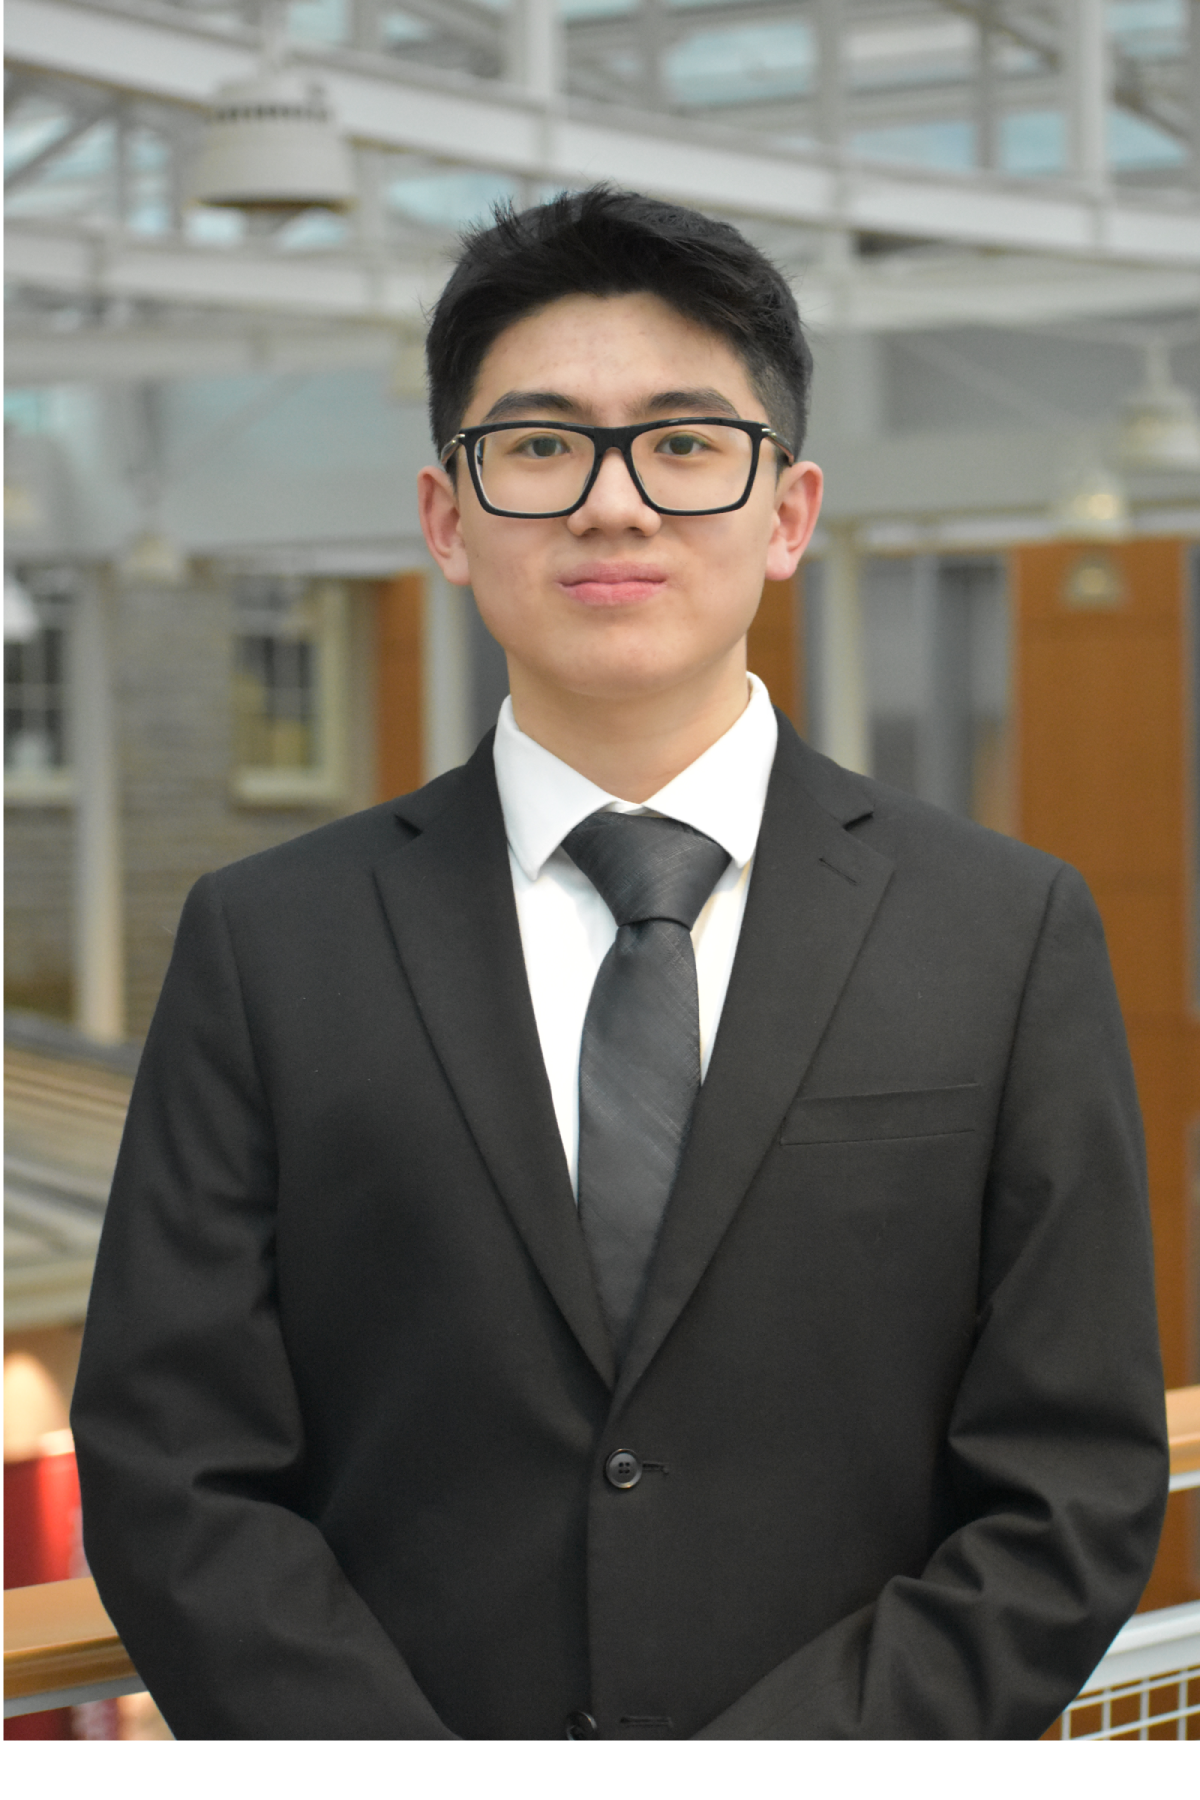
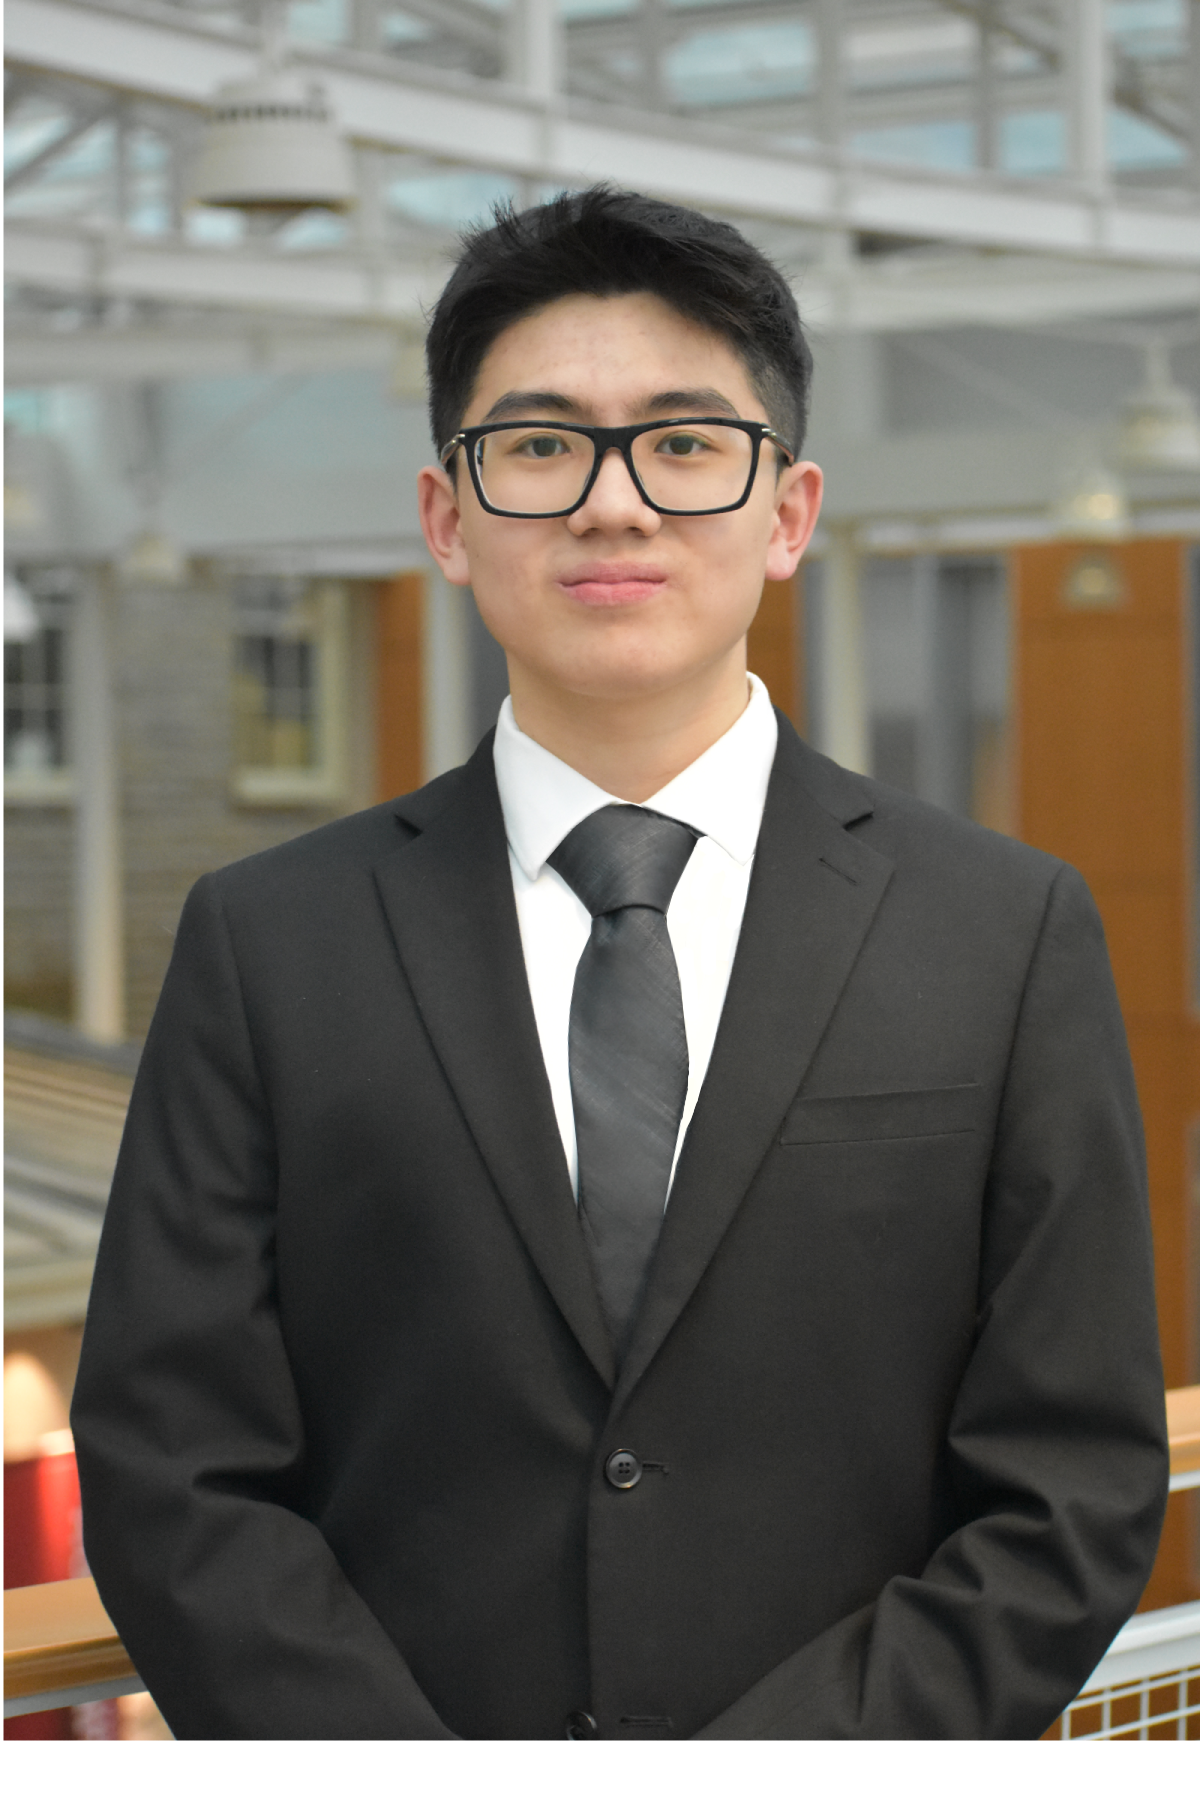
added beta class members + updated headshots

Changed region(s): [[0.4625, 0.4356, 0.6475, 0.6533]]

diff --git a/members.html b/members.html
@@ -57,11 +57,23 @@
                         <p>Loading E-board members...</p>
                     </div>
                 </div>
+
+                <!-- <h2 class="fw-bold text-center mb-1" style="color: var(--navbar-bg-color);">Beta Class</h2>
+                <h4 class="text-center mb-4">Fall 2025</h4>
+                <div class="text-center mb-5">
+                    <img src="images/classpictures/betaclass.png" class="img-fluid" style="max-width: 1000px;" alt="Beta Class group photo">
+                </div>
+
+                <div id="beta-root" class="row g-4 mb-5">
+                    <div class="col-12 text-center">
+                        <p>Loading Beta Class members...</p>
+                    </div>
+                </div> -->
           
                 <h2 class="fw-bold text-center mb-1" style="color: var(--navbar-bg-color);">Alpha Class</h2>
                 <h4 class="text-center mb-4">Spring 2025</h4>
                 <div class="text-center mb-5">
-                    <img src="images/classpictures/alphaclass.JPG" class="img-fluid" style="max-width: 1000px;" alt="Alpha Class group photo">
+                    <img src="images/classpictures/alphaclass.png" class="img-fluid" style="max-width: 1000px;" alt="Alpha Class group photo">
                 </div>
                 <div id="alpha-root" class="row g-4 mb-5">
                     <div class="col-12 text-center">
@@ -217,54 +229,6 @@
             }
 
             // Hardcoded data (since JSON fetch might not work locally)
-            const membersData = {
-                "eboard": [
-                    {
-                        "name": "Riya Patel",
-                        "major": "Hotel Administration '27",
-                        "photo": "images/headshots/AlphaClass/Riya Pate.png",
-                        "hometown": "Savannah, GA",
-                        "linkedin": "https://www.linkedin.com/in/rbp18",
-                        "email": "rbp95@cornell.edu",
-                        "description": "Outside KTP, Riya is involved in Cornell Hotel Society, Cornell Marketing Club, Cornell Real Estate Club, CREDIT, and SWIB. This summer, she is working at Arnva Ventures as a PE intern. In her free time, she enjoys discovering new brunch spots, planning events, and exploring vibrant cities.",
-                        "role": "Co-President"
-                    },
-                    {
-                        "name": "Gregory Parent",
-                        "major": "Computer Science '28",
-                        "photo": "images/headshots/AlphaClass/Gregory Parent.jpeg",
-                        "hometown": "Armonk, NY",
-                        "linkedin": "https://www.linkedin.com/in/gregory-parent",
-                        "email": "gmp89@cornell.edu",
-                        "description": "Outside KTP, Gregory is invoved in Cornell Fintech Club. In his free time, he enjoys lifting, watching movies, and listening to Rock Music.",
-                        "role": "Co-President"
-                    }
-                ],
-                "alpha": [
-                    {
-                        "name": "Alexis Barrow",
-                        "major": "Mechanical and Aerospace Engineering '27",
-                        "photo": "images/headshots/AlphaClass/Alexis Barrow.JPG",
-                        "hometown": "Ramsey, NJ",
-                        "linkedin": "https://www.linkedin.com/in/alexis-barrow12",
-                        "email": "alexismadbarrow@gmail.com",
-                        "description": "Outside KTP, Alexis is involved in Cornell Electric Vehicles, and Tri Delta sorority. This summer, she is planning to work at General Atomics Aeronautical Systems. In her free time, she enjoys running, playing soccer, painting, and doing embroidery.",
-                        "role": ""
-                    }
-                ],
-                "founders": [
-                    {
-                        "name": "Belen del Castillo",
-                        "major": "Information Science '26",
-                        "photo": "images/headshots/Founders/Belen Del Castillo.JPG",
-                        "hometown": "Chicago, IL",
-                        "linkedin": "https://www.linkedin.com/in/belen-del-castillo/",
-                        "email": "bad88@cornell.edu",
-                        "description": "",
-                        "role": ""
-                    }
-                ]
-            };
 
             function renderMembers(containerId, members) {
                 const container = document.getElementById(containerId);
@@ -298,15 +262,9 @@
                 .then(data => {
                     renderMembers('eboard-root', data.eboard);
                     renderMembers('alpha-root', data.alpha);
+                    renderMembers('beta-root', data.beta);
                     renderMembers('founders-root', data.founders);
                 })
-                .catch(error => {
-                    console.log('Using hardcoded data due to:', error);
-                    // Use hardcoded data as fallback
-                    renderMembers('eboard-root', membersData.eboard);
-                    renderMembers('alpha-root', membersData.alpha);
-                    renderMembers('founders-root', membersData.founders);
-                });
 
         </script>
 

diff --git a/index.html b/index.html
@@ -111,7 +111,7 @@ https://templatemo.com/tm-575-leadership-event
 
                         Your browser does not support the video tag.
                     </video> -->
-                    <img src="images/classpictures/alphaclass.JPG" class="custom-video" style= "margin-top: -5px;"alt="KTP group photo">
+                    <img src="images/classpictures/alphaclass.png" class="custom-video" style= "margin-top: -5px;"alt="KTP group photo">
 
                 </div>
             </section>
@@ -174,7 +174,7 @@ https://templatemo.com/tm-575-leadership-event
                             <a class="custom-btn btn custom-link mt-3" href="join.html">Join Us</a>
                         </div>
                         <div class="col-lg-6 col-12 mt-5 mt-lg-0">
-                            <img src="images/classpictures/alphaclass.JPG" class="img-fluid" alt="KTP group photo">
+                            <img src="images/classpictures/alphaclass.png" class="img-fluid" alt="KTP group photo">
                         </div>
 
                         
